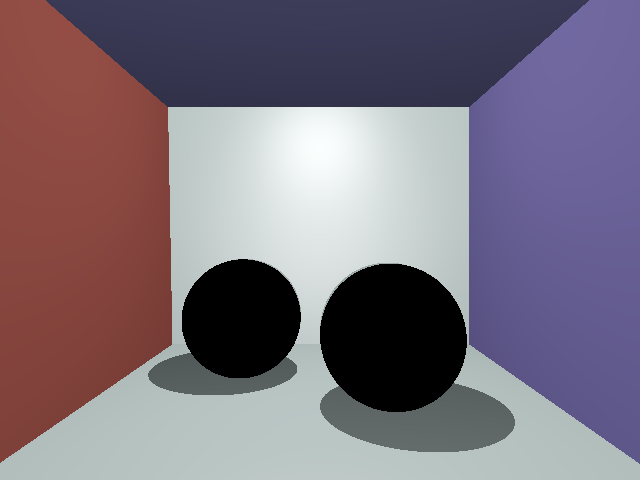
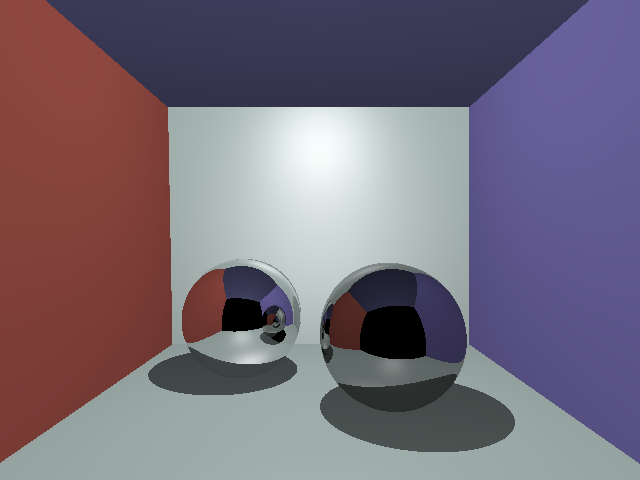
Added reflection (not optimized)

diff --git a/src/raytracer.c b/src/raytracer.c
@@ -90,7 +90,10 @@ static vec3d diffuse_illum(const scene_obj *obj, const light_src *l,
     vl = vec3d_normalized(vec3d_sub(l->pos, point));
     scal = max(0, vec3d_dot(vl, normal));
 
-    return vec3d_scale(vec3d_mul(obj->mat->kd, l->illum), scal);
+    return vec3d_scale(
+                vec3d_mul(obj->mat->kd, l->illum), 
+                scal * obj->mat->al.x
+            );
 }
 
 static vec3d specular_illum(const scene_obj *obj, const light_src *l,
@@ -110,24 +113,37 @@ static vec3d specular_illum(const scene_obj *obj, const light_src *l,
 
     return vec3d_scale(
                 vec3d_mul(obj->mat->ks, l->illum), 
-                pow(scal, obj->mat->ns)
+                pow(scal, obj->mat->ns) * obj->mat->al.x
             );
 }
 
 static vec3d reflect_illum(const scene_obj *obj, const scene *s, 
-        vec3d point, vec3d normal, vec3d view_point, int cur_depth)
+                           vec3d point, vec3d normal, vec3d view_point,
+                           int cur_depth, render_options ropts)
 {
-    return vec3d_zero();
+    vec3d ve;
+    ray refl_r;
+
+    ve = vec3d_normalized(vec3d_sub(view_point, point));
+    refl_r.dir = vec3d_reflect(ve, normal);
+    refl_r.orig = vec3d_sum(point, vec3d_scale(refl_r.dir, EPSILON));
+    
+    return vec3d_scale(
+                trace_ray(refl_r, s, cur_depth+1, ropts),
+                obj->mat->al.y
+            );
 }
 
 static vec3d refract_illum(const scene_obj *obj, const scene *s, 
-        vec3d point, vec3d normal, vec3d view_point, int cur_depth)
+                           vec3d point, vec3d normal, vec3d view_point,
+                           int cur_depth, render_options ropts)
 {
     return vec3d_zero();
 }
 
 static vec3d shade(vec3d point, vec3d normal, vec3d view_point,
-        const scene_obj *obj, const scene *s, int cur_depth)
+                   const scene_obj *obj, const scene *s,
+                   int cur_depth, render_options ropts)
 {
     vec3d color;
     int i;
@@ -148,19 +164,18 @@ static vec3d shade(vec3d point, vec3d normal, vec3d view_point,
 
     /* if not reached max recursion depth, collect illumination from refletion
      * and refraction */
-    if (cur_depth < max_depth) {
+    if (cur_depth < ropts.max_rec_depth) {
         color = vec3d_sum3(
             color,
-            reflect_illum(obj, s, point, normal, view_point, cur_depth),
-            refract_illum(obj, s, point, normal, view_point, cur_depth)
+            reflect_illum(obj, s, point, normal, view_point, cur_depth, ropts),
+            refract_illum(obj, s, point, normal, view_point, cur_depth, ropts)
         );
     }
 
     return color;
 }
 
-vec3d trace_ray(ray r, const scene *s, const camera *c, 
-                int cur_depth, render_mode rmode)
+vec3d trace_ray(ray r, const scene *s, int cur_depth, render_options ropts)
 {
     scene_obj *hit_obj;
     vec3d hit_point, hit_normal;
@@ -169,11 +184,12 @@ vec3d trace_ray(ray r, const scene *s, const camera *c,
     hit_obj = find_closest_object(r, s, &hit_point, &dist);
     if (!hit_obj)
         return vec3d_zero();
-    hit_normal = get_normal(hit_point, hit_obj, c->pos);
+    hit_normal = get_normal(hit_point, hit_obj, r.orig);
 
-    switch (rmode) {
+    switch (ropts.mode) {
         case rmode_full:
-            return shade(hit_point, hit_normal, c->pos, hit_obj, s, cur_depth);
+            return shade(hit_point, hit_normal, r.orig,
+                         hit_obj, s, cur_depth, ropts);
         case rmode_depth:
             return vec3d_scale(vec3d_one(), dist);
         case rmode_normal:

diff --git a/test.c b/test.c
@@ -13,7 +13,7 @@
 
 #include "src/debug.h"
 
-static render_mode rmode = rmode_full;
+static render_options ropts = { rmode_full, 4 };
 
 double random_val()
 {
@@ -80,7 +80,7 @@ int test_sphere()
 
     c = camera_from_look_at(0, 0, 0, 0, 0, -1, 90, 1);
 
-    render(&s, &c, rmode, &img);
+    render(&s, &c, ropts, &img);
 
     save_img_to_png(&img, "./test_sphere.png");
     free(s.objects);
@@ -125,7 +125,7 @@ int test_3_spheres()
 
     c = camera_from_look_at(0, 0, 0, 0, 0, -1, 90, 1);
 
-    render(&s, &c, rmode, &img);
+    render(&s, &c, ropts, &img);
 
     save_img_to_png(&img, "./test_3_spheres.png");
     free(s.objects);
@@ -159,7 +159,7 @@ int test_triangle_simple()
 
     c = camera_from_look_at(0, 2, 0, 0, 0, 0, 90, 1);
 
-    render(&s, &c, rmode, &img);
+    render(&s, &c, ropts, &img);
 
     save_img_to_png(&img, "./test_triangle.png");
     free(s.objects);
@@ -182,7 +182,7 @@ int test_gen_case(const char *obj_path, const char *png_save_path,
 
     alloc_image(&img, res_x, res_y);
 
-    render(s, c, rmode, &img);
+    render(s, c, ropts, &img);
 
     save_img_to_png(&img, png_save_path);
 

diff --git a/src/scene.c b/src/scene.c
@@ -28,6 +28,7 @@ material material_literal(double ka_x, double ka_y, double ka_z,
 material material_zero()
 {
     material m = {0};
+    m.al.x = 1; /* default albedo is 1 0 0 */
     return m;
 }
 
@@ -43,7 +44,7 @@ void destroy_scene(scene *s)
     free(s);
 }
 
-int render(const scene *s, const camera *c, render_mode rmode, image *img)
+int render(const scene *s, const camera *c, render_options ropts, image *img)
 {
     size_t x, y;
     ray r;
@@ -52,13 +53,13 @@ int render(const scene *s, const camera *c, render_mode rmode, image *img)
     for (x = 0; x < img->width; x++)
         for (y = 0; y < img->height; y++) {
             r = get_camera_ray(c, x, y, img);
-            color = trace_ray(r, s, c, 0, rmode);
+            color = trace_ray(r, s, 0, ropts);
 
             // Negating image inversion
             set_img_pixel(img, color, x, img->height-y-1);
         }
 
-    post_process(img, rmode);
+    post_process(img, ropts.mode);
 
     return 1;
 }

diff --git a/src/scene.h b/src/scene.h
@@ -8,8 +8,6 @@
 #include "render_mode.h"
 #include <math.h>
 
-enum { max_depth = 2 };
-
 typedef struct tag_material {
     vec3d ka, kd, ks, ke;
     double ns, ni;
@@ -47,6 +45,6 @@ material material_zero();
 scene *create_scene();
 void destroy_scene(scene *s);
 
-int render(const scene *s, const camera *c, render_mode rmode, image *img);
+int render(const scene *s, const camera *c, render_options ropts, image *img);
 
 #endif 

diff --git a/src/render_mode.h b/src/render_mode.h
@@ -1,9 +1,14 @@
-/* CPURenderer/src/render_mode.h */
-#ifndef RENDER_MODE_SENTRY
-#define RENDER_MODE_SENTRY
+/* CPURenderer/src/render_options.h */
+#ifndef RENDER_OPTIONS_SENTRY
+#define RENDER_OPTIONS_SENTRY
 
 typedef enum tag_render_mode {
     rmode_full, rmode_depth, rmode_normal
 } render_mode;
+
+typedef struct tag_render_options {
+    render_mode mode;
+    int max_rec_depth;
+} render_options;
 
 #endif

diff --git a/src/raytracer.h b/src/raytracer.h
@@ -6,7 +6,6 @@
 #include "scene.h"
 #include "render_mode.h"
 
-vec3d trace_ray(ray r, const scene *s, const camera *c, 
-                int cur_depth, render_mode rmode);
+vec3d trace_ray(ray r, const scene *s, int cur_depth, render_options ropts);
 
 #endif 
